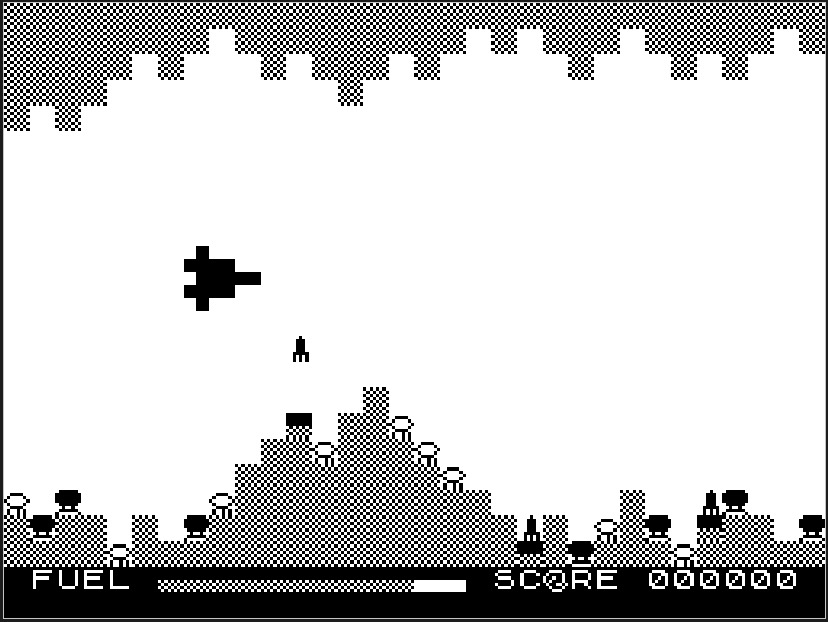
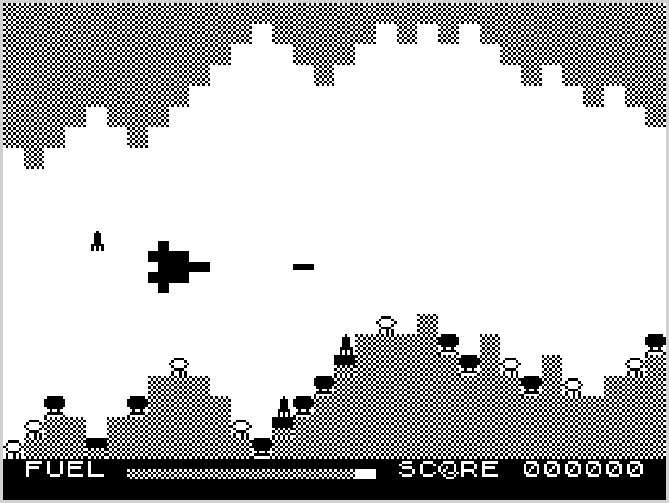
Documentation

diff --git a/documentation/zx81/zx81-zsim.md b/documentation/zx81/zx81-zsim.md
@@ -93,13 +93,17 @@ Here as an example "Battlestar Galactica":
 The game with normal graphics, using the standard ZX81 charset:
 ![](images/galactica-standard-charset.jpg)
 
-And here with a modded, custom charset:
+Here with a modded, custom charset:
 ![](images/galactica-custom-charset.jpg)
+
+And here with added colors:
+![](images/galactica-custom-charset-colored.jpg)
+
 
 Of course, the changes you can do with this are limited as characters are re-used for other purposes (e.g. the "O" in "SCORE" which is also a meteor in the game).
 But on the other hand it is a very easy change.
 
-The only thing you need to do is to overwrite the ROM charset with your custom one.
+For the character set changes the only thing you need to do is to overwrite the ROM charset with your custom one.
 You do it with a "loadObjs" like this:
 ~~~json
 "loadObjs": [
@@ -115,6 +119,8 @@ As the ROM can be easily overwritten by DeZog it replaces all original bytes (ch
 To create galactica_chars.bin you can use a e.g. a hex editor, it's size should not exceed 512 bytes.
 
 More comfortable you could also use an assembler like sjasmplus to generate the bin file.
+
+TODO: Explain the color changes
 
 ### Generate a custom charset with sjasmplus
 [galactica_chars.asm](extra/galactica_chars.asm) holds the assembled code for a modified charset.

diff --git a/documentation/Usage.md b/documentation/Usage.md
@@ -280,12 +280,12 @@ In launch.json use
     "load": "<filename.ext>"
 ~~~
 
-to either load a .nex, .sna (or .tap) file. On start of the debug session the file is loaded into the emulator.
+to either load a .nex, .sna, .p (or .tap) file. On start of the debug session the file is loaded into the emulator.
 .tap is only supported on ZEsarUX.
-On ZEsarUX the .nex, .sna or .tap file is loaded via ZEsarUX's "smartload" command.
+On ZEsarUX the .nex, .sna, .p or .tap file is loaded via ZEsarUX's "smartload" command.
 This will give the best emulation for .nex (and .tap) loading as the nex loading can be emulated as well.
 
-For all other remotes (cspect, zsim, mame and zxnext) the .nex or .sna file loading is mainly copying the data into the emulators memory, setting a few registers and starting it.
+For all other remotes (cspect, zsim, mame and zxnext) the .nex, .sna or .p file loading is mainly copying the data into the emulators memory, setting a few registers and starting it.
 For the .sna file (apart from ZEsarUX) only zsim will set the port 0x7FFD and the IFF2 register (interrupt enabled) correctly.
 
 For the .nex file there can be some missing initializations.
